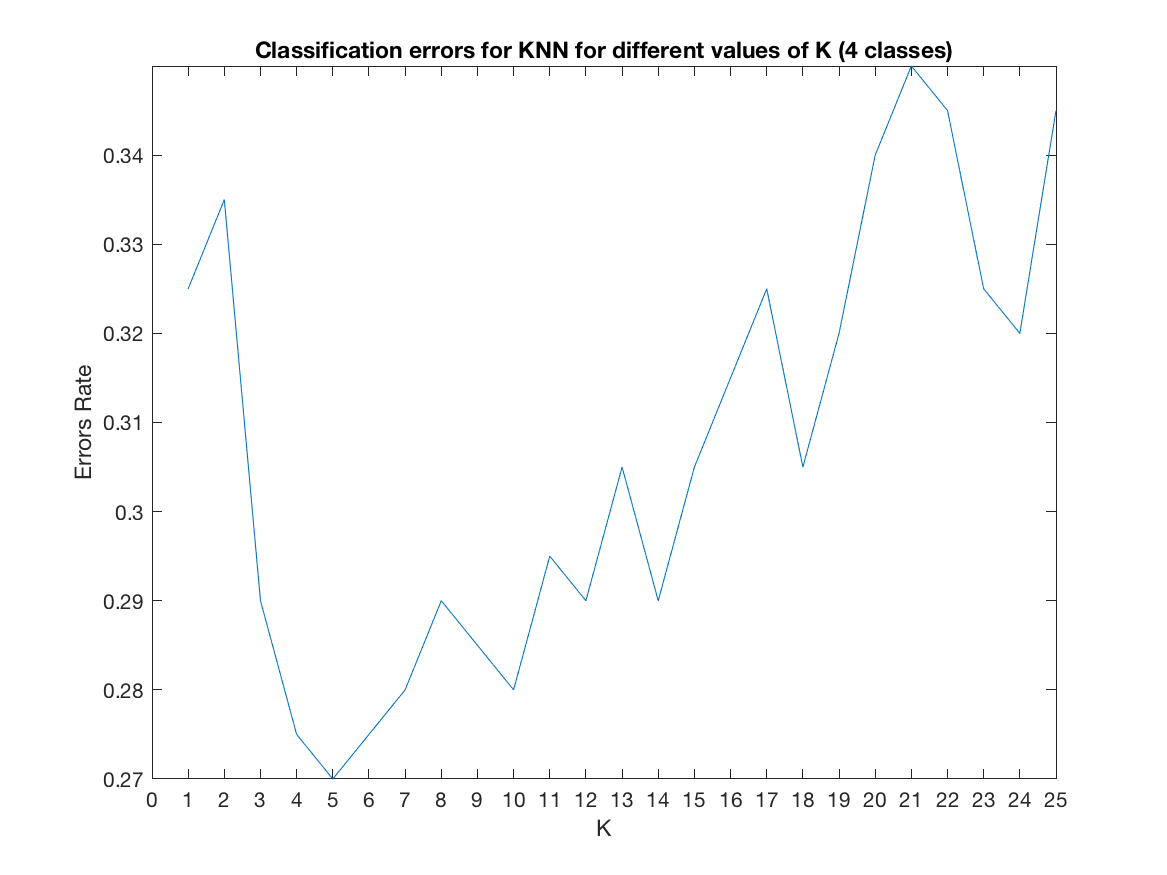
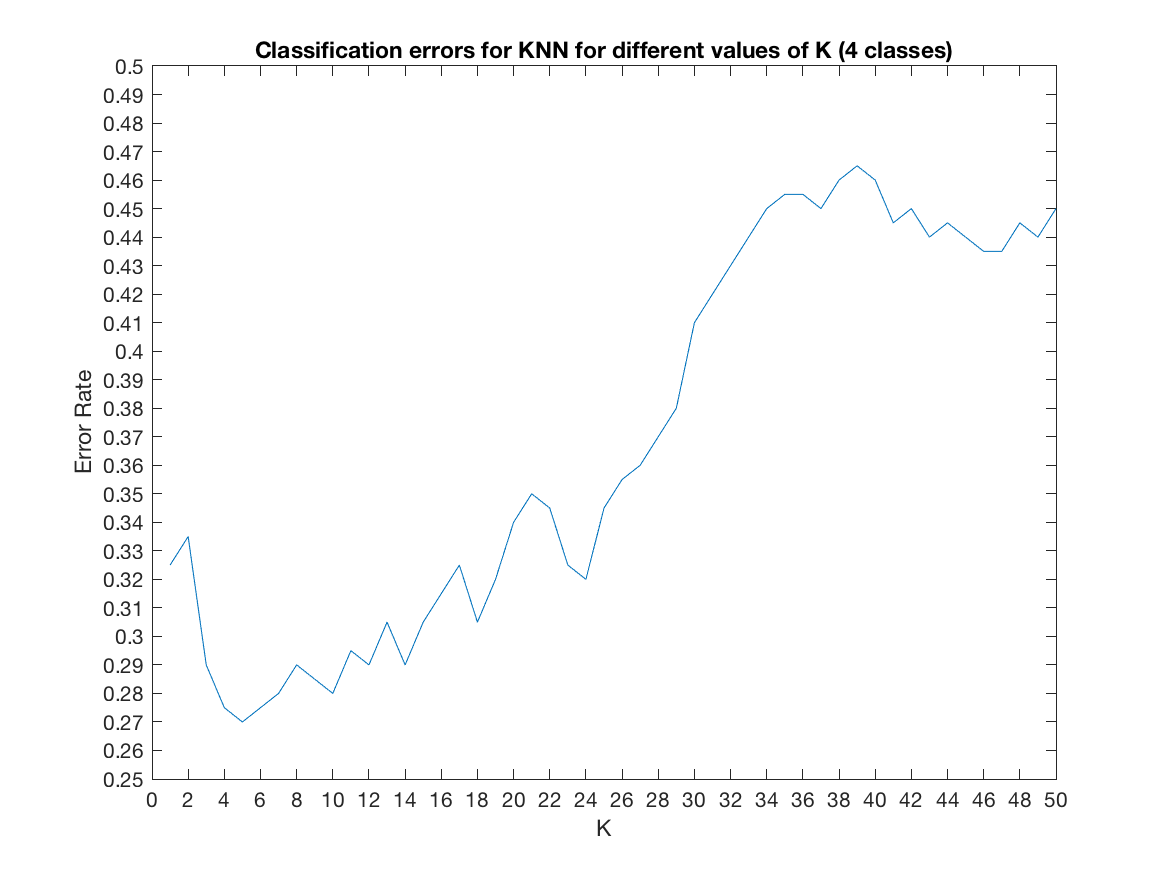
Lab3 - Ex2: cleanup plots

diff --git a/lab3/ex2/knn_wrapper.m b/lab3/ex2/knn_wrapper.m
@@ -31,16 +31,16 @@ fprintf('error rate for k=3  -> %.6f\n', errors_rate_3);
 fprintf('error rate for k=17 -> %.6f\n', errors_rate_17);
 
 % plot choice of K
-all_ks = 1:25;
+all_ks = 1:50;
 errors_rates = arrayfun(@(k) loovc(data, labels, k), all_ks);
 plot(all_ks, errors_rates);
 xlimits = xlim;
-xticks(xlimits(1):1:(xlimits(2)));
+xticks(xlimits(1):2:(xlimits(2)));
 ylimits = ylim;
 yticks(ylimits(1):0.01:(ylimits(2)));
-title('Classification errors for KNN for different values of K');
+title('Classification errors for KNN for different values of K (2 classes)');
 xlabel('K');
-ylabel('Errors Rate');
+ylabel('Error Rate');
 saveas(gcf, 'classification_errors_2_classes', 'png');
 
 % select best K
@@ -63,12 +63,12 @@ visualize(result_4_classes_k_7, 7, data, labels_4_classes, samples);
 errors_rates_4_classes = arrayfun(@(k) loovc(data, labels_4_classes, k), all_ks);
 plot(all_ks, errors_rates_4_classes);
 xlimits = xlim;
-xticks(xlimits(1):1:(xlimits(2)));
+xticks(xlimits(1):2:(xlimits(2)));
 ylimits = ylim;
 yticks(xlimits(1):0.01:(xlimits(2)));
 title('Classification errors for KNN for different values of K (4 classes)');
 xlabel('K');
-ylabel('Errors Rate');
+ylabel('Error Rate');
 saveas(gcf, 'classification_errors_4_classes', 'png');
 
 % select best K
